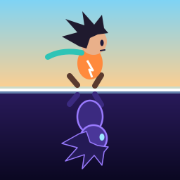
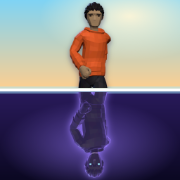
Show the new 3D game on the site
New 3D screenshots, icon and share image; the hero title uses the game's
new logo style and tagline.

diff --git a/assets/style.css b/assets/style.css
@@ -134,10 +134,11 @@ header.top.scrolled nav a.pill:hover { background: var(--sun-2); }
 .eyebrow .dot { width: 8px; height: 8px; border-radius: 50%; background: var(--violet); box-shadow: 0 0 0 0 var(--violet); animation: ping 1.8s infinite; }
 @keyframes ping { 70% { box-shadow: 0 0 0 9px transparent; } 100% { box-shadow: 0 0 0 0 transparent; } }
 
-.hero h1 { font-size: clamp(56px, 10vw, 112px); line-height: .92; margin: 22px 0 14px; letter-spacing: -.01em; }
+.hero h1 { font-size: clamp(56px, 10vw, 112px); line-height: .95; margin: 22px 0 14px; letter-spacing: .01em; font-style: italic; text-transform: uppercase; }
 .hero h1 .line { display: block; }
-.hero h1 .w-shadow { color: var(--ink); }
-.hero h1 .w-runner { color: var(--cream); text-shadow: 0 5px 0 var(--ink), 0 14px 30px rgba(42, 27, 92, .35); }
+/* The game's logo: a white SHADOW over an electric-blue RUNNER, outlined in midnight. */
+.hero h1 .w-shadow { color: #fff; -webkit-text-stroke: .09em #0b0822; paint-order: stroke fill; text-shadow: 0 .06em 0 #0b0822, 0 14px 30px rgba(42, 27, 92, .35); }
+.hero h1 .w-runner { margin-left: .3em; background: linear-gradient(180deg, #9fc2ff, #4f7dff 50%, #3a4fe0); -webkit-background-clip: text; background-clip: text; color: transparent; filter: drop-shadow(0 .06em 0 #0b0822) drop-shadow(0 0 1px #0b0822) drop-shadow(0 14px 24px rgba(42, 27, 92, .35)); }
 .hero .tag { font-size: clamp(22px, 3vw, 30px); font-weight: 700; margin: 0; }
 .hero .sub { font-size: clamp(17px, 2vw, 20px); color: var(--ink-soft); max-width: 600px; margin: 10px auto 0; }
 

diff --git a/index.html b/index.html
@@ -129,7 +129,7 @@
         <span class="line w-shadow">Shadow</span>
         <span class="line w-runner">Runner</span>
       </h1>
-      <p class="tag reveal" style="--i:2">Two worlds. One runner.</p>
+      <p class="tag reveal" style="--i:2">Switch realities. Master both worlds.</p>
       <p class="sub reveal" style="--i:3">Run through a bright reality and a dark shadow world at the same time. Tap to switch who's in control.</p>
 
       <!-- Store links: when the app is live, point these at the store listings:
